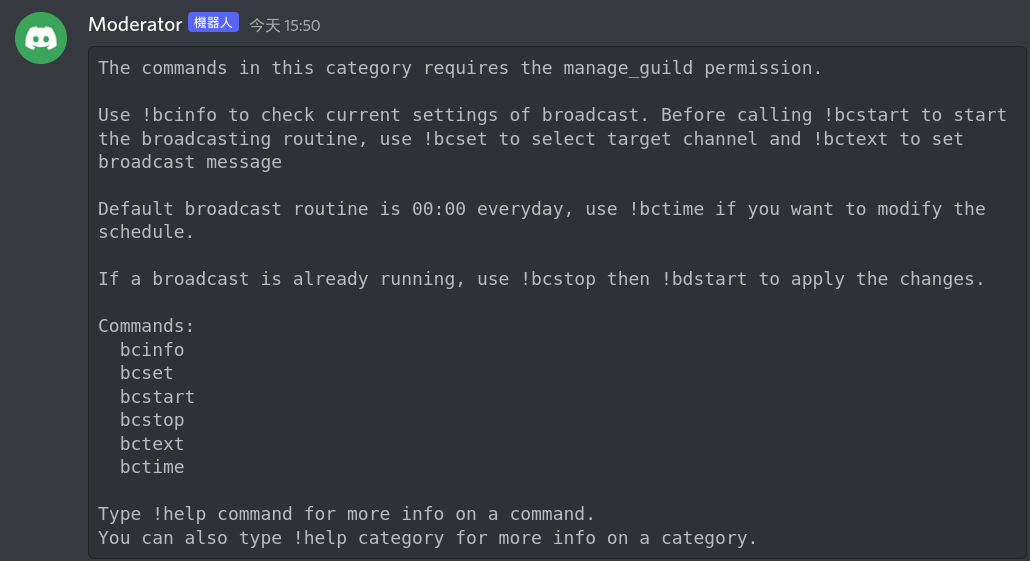
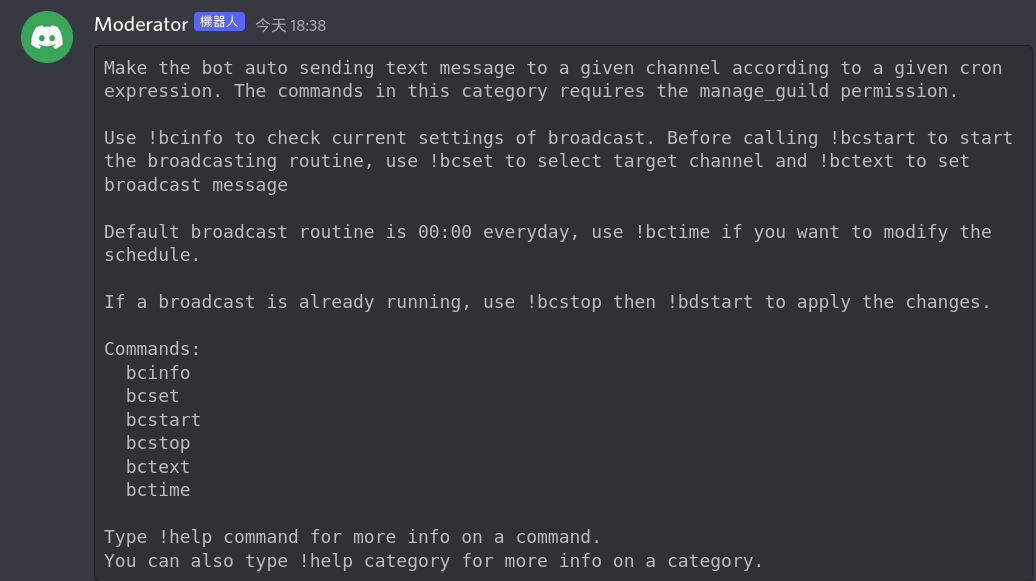
update readme and description

diff --git a/bot/Cogs/interactions.py b/bot/Cogs/interactions.py
@@ -4,16 +4,14 @@ class Interactions(commands.Cog):
     def __init__(self, bot) -> None:
         self.bot = bot
 
-    @commands.command(description='Making the bot repeat your message sent in the command.')
+    @commands.command(description='Making the bot reply a message to you with <message_content>.')
     async def echo(self, ctx, message_content: str = commands.parameter(description=' - Any text')):
-        await ctx.send(f'{ctx.author}:{message_content}')
+        await ctx.reply(f'{message_content}')
 
     @commands.command(description=
     'Add a new text channel to current guild. The channel_name will be \"new-channel\" if not given.')
-    async def newchannel(self, ctx, channel_name: str = commands.parameter(default=None, description=' ')):
+    async def newchannel(self, ctx, channel_name: str = commands.parameter(default='new-channel', description='(Optional)')):
         current_guild = ctx.guild
-        if channel_name is None:
-            channel_name = "new-channel"
         await ctx.reply(f'Textchannel {channel_name} successfully created!')
         await current_guild.create_text_channel(channel_name)
 

diff --git a/bot/Cogs/broadcaster.py b/bot/Cogs/broadcaster.py
@@ -9,10 +9,10 @@ from apscheduler.triggers.cron import CronTrigger
 from cron_validator import CronValidator
 
 class Broadcaster(commands.Cog, description=
-'The commands in this category requires the manage_guild permission.\n\n\
-Use !bcinfo to check current settings of broadcast. Before calling \
-!bcstart to start the broadcasting routine, use !bcset to \
-select target channel and !bctext to set broadcast message \n\n\
+'Make the bot auto sending text message to a given channel according to a given cron expression. \
+The commands in this category requires the manage_guild permission.\n\n\
+Use !bcinfo to check current settings of broadcast. Before calling !bcstart to start the \
+broadcasting routine, use !bcset to select target channel and !bctext to set broadcast message \n\n\
 Default broadcast routine is 00:00 everyday, use !bctime if you want to modify the schedule.\n\n\
 If a broadcast is already running, use !bcstop then !bdstart to apply the changes.'):
     def __init__(self, bot) -> None:

diff --git a/bot/Cogs/member_management.py b/bot/Cogs/member_management.py
@@ -6,14 +6,14 @@ class MemberManagement(commands.Cog):
     def __init__(self, bot) -> None:
         self.bot = bot
 
-    @commands.command()
+    @commands.command(description='Kick out a tagged-member from current server.')
     @has_permissions(kick_members=True)
     async def kick(self, ctx, member: Member = commands.parameter(description=' - Tag a member'),
                      *, reason: str=  commands.parameter(default=None, description='(Optional)')):
         await member.kick(reason=reason)
         await ctx.send(f'{member} is out!')
 
-    @commands.command()
+    @commands.command('Ban a tagged-member from current server.')
     @has_permissions(ban_members=True)
     async def ban(self, ctx, member: Member = commands.parameter(description=' - Tag a member'),
                      *, reason: str=  commands.parameter(default=None, description='(Optional)')):

diff --git a/readme.md b/readme.md
@@ -1,16 +1,49 @@
 ## Bot Command Usage
+
 Commands prefix: `!` (halfwidth)
 
-Type !help to get the full list of commands:
+Type !help to get the full list of commands in discord:
 
 ![!help](./figs/defaultHelp.png)
 
-### To use the Broadcaster category:
+### Commands (The Interaction and MemberManagement Category)
+
+- !echo <message_content>
+    - Making the bot reply a message to you with <message_content>.
+- !newchannel [channel_name]
+    - Add a new text channel to current guild. The channel_name will be 'new-channel' if not given.
+- kick <member> [reason]
+    - Kick out a tagged-member from current server.
+    - Requires permission from the command sender.
+- ban <member> [reason]
+    - Ban a tagged-member from current server.
+    - Requires permission from the command sender.
+
+### The Broadcaster category
+
+The broadcast feature is to make the bot auto sending text message to a given channel according to a given cron expression. The commands in this category requires the manage_guild permission.
 
 Type !help Broadcaster in channel to get the usage description from bot:
 
 ![!help Broadcast](./figs/helpBC.png)
 
-!bcinfo command to check current setttings of broadcast:
+- `!bcinfo`
+    - To check current setttings of broadcast:
+    ![!bcinfo](./figs/bcinfo.png)
 
-![!bcinfo](./figs/bcinfo.png)
+- `!bcset` <target_channel_name> [target_guild_name]
+    - To set the target channel
+    - If target_guild_name is not given, it will choose the current guild.
+
+- '!bctext' <message_content>
+    - Set the message you want to broadcast.
+
+- `!bctime` <cron_exp>
+    - Set a custom schedule for the broadcast with unix cron expression.
+    - This command is not required to run the broadcast if you are fine with the default schedule with cron expression `0 0 * * *` (00:00 everyday).
+
+- `!bcstart`
+    - Run the broadcast. Must setup the target channel with `!bcset` and broadcast content with `bctext` before running.
+
+- `!bcstop`
+    - Stop the current broadcast task.
